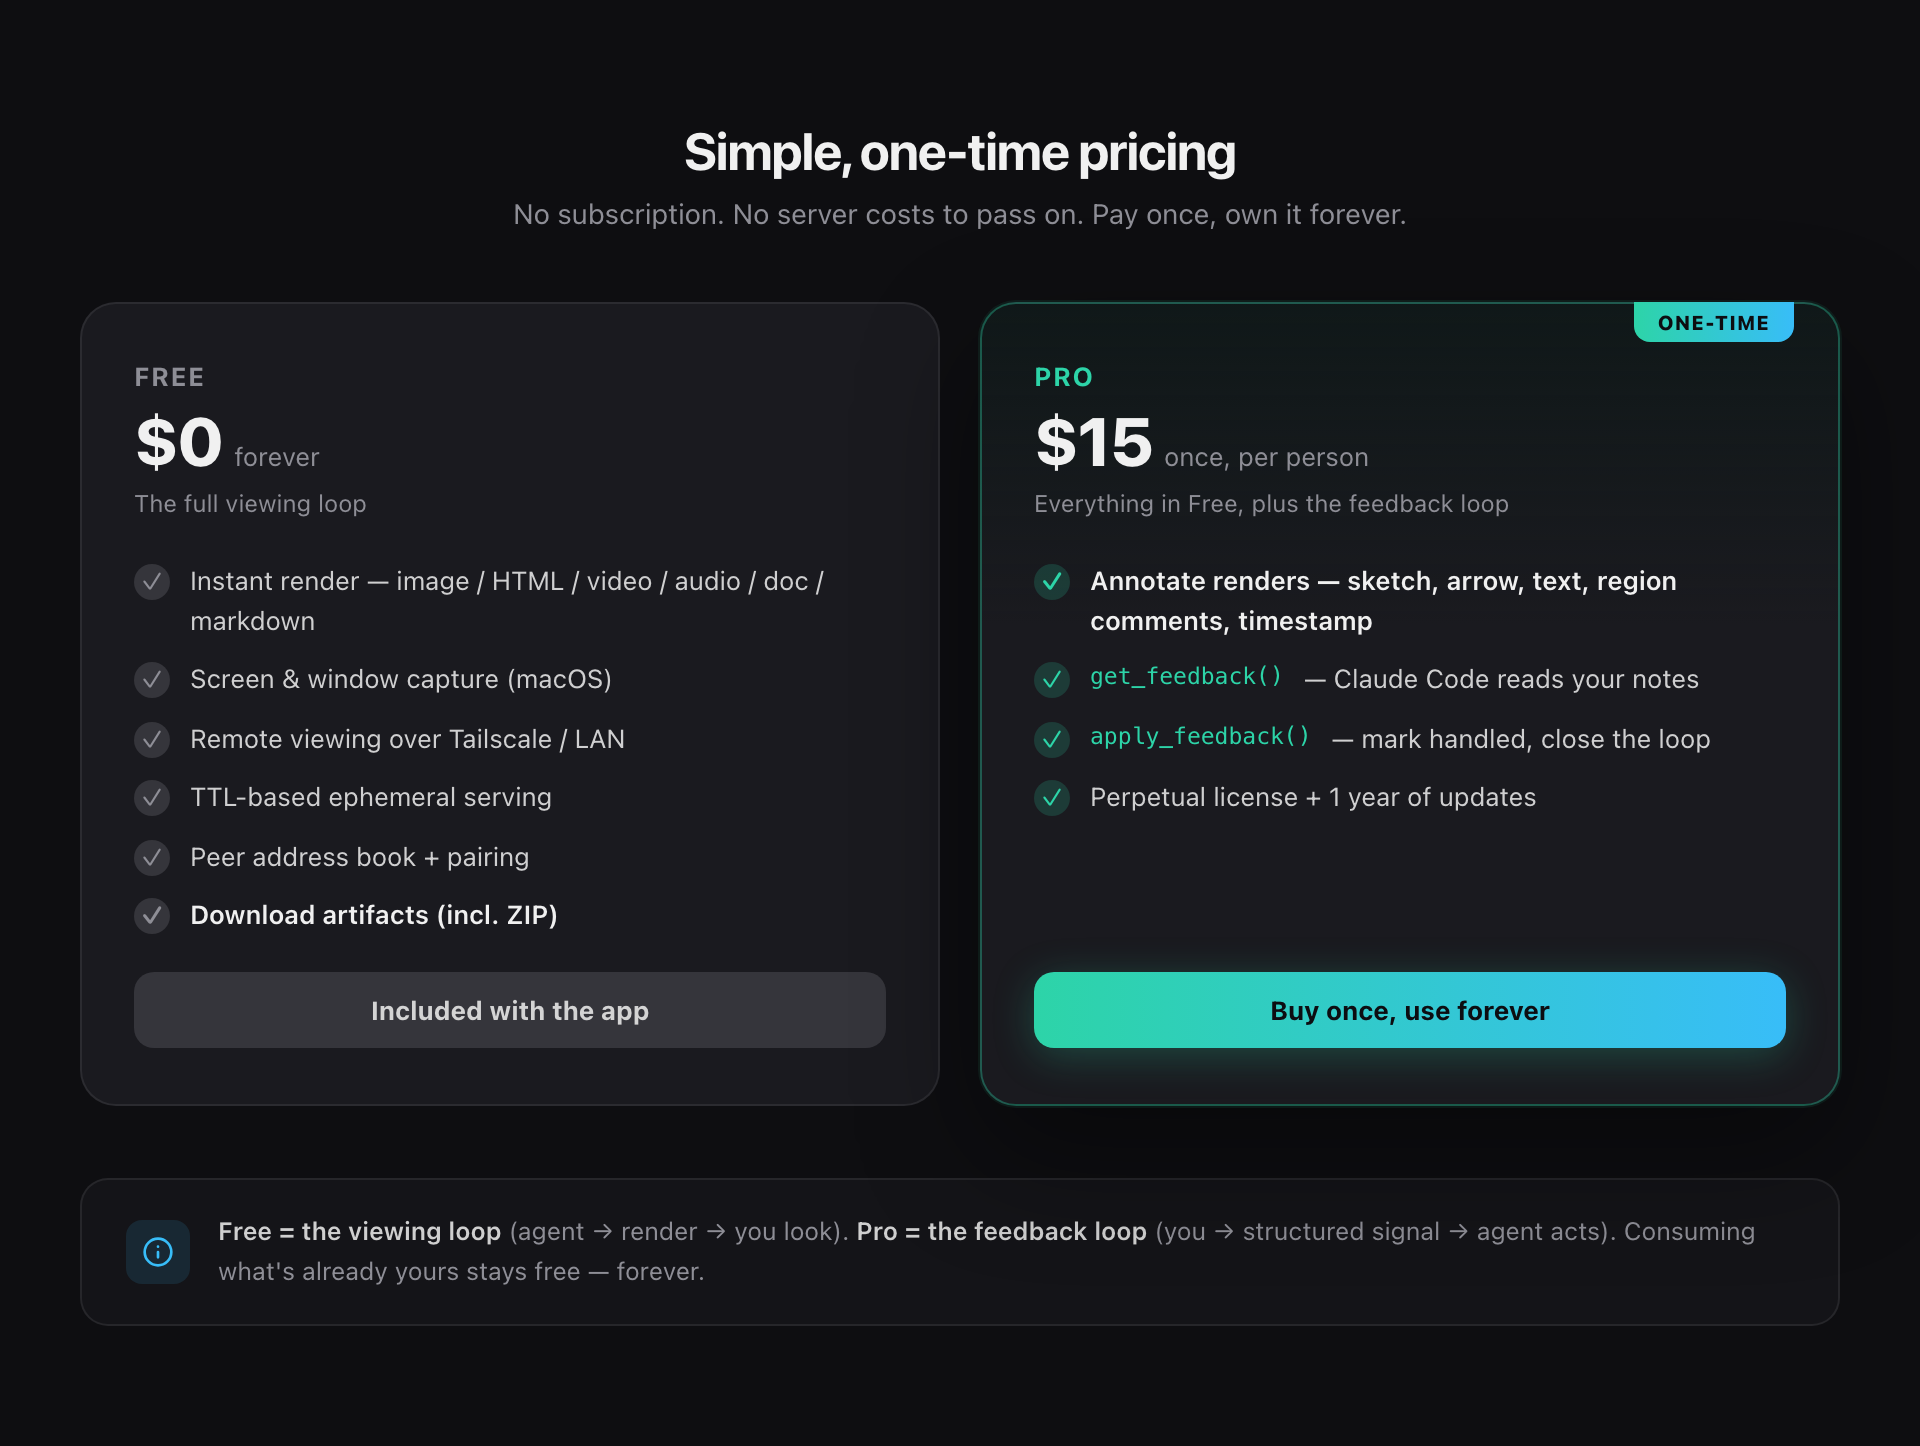
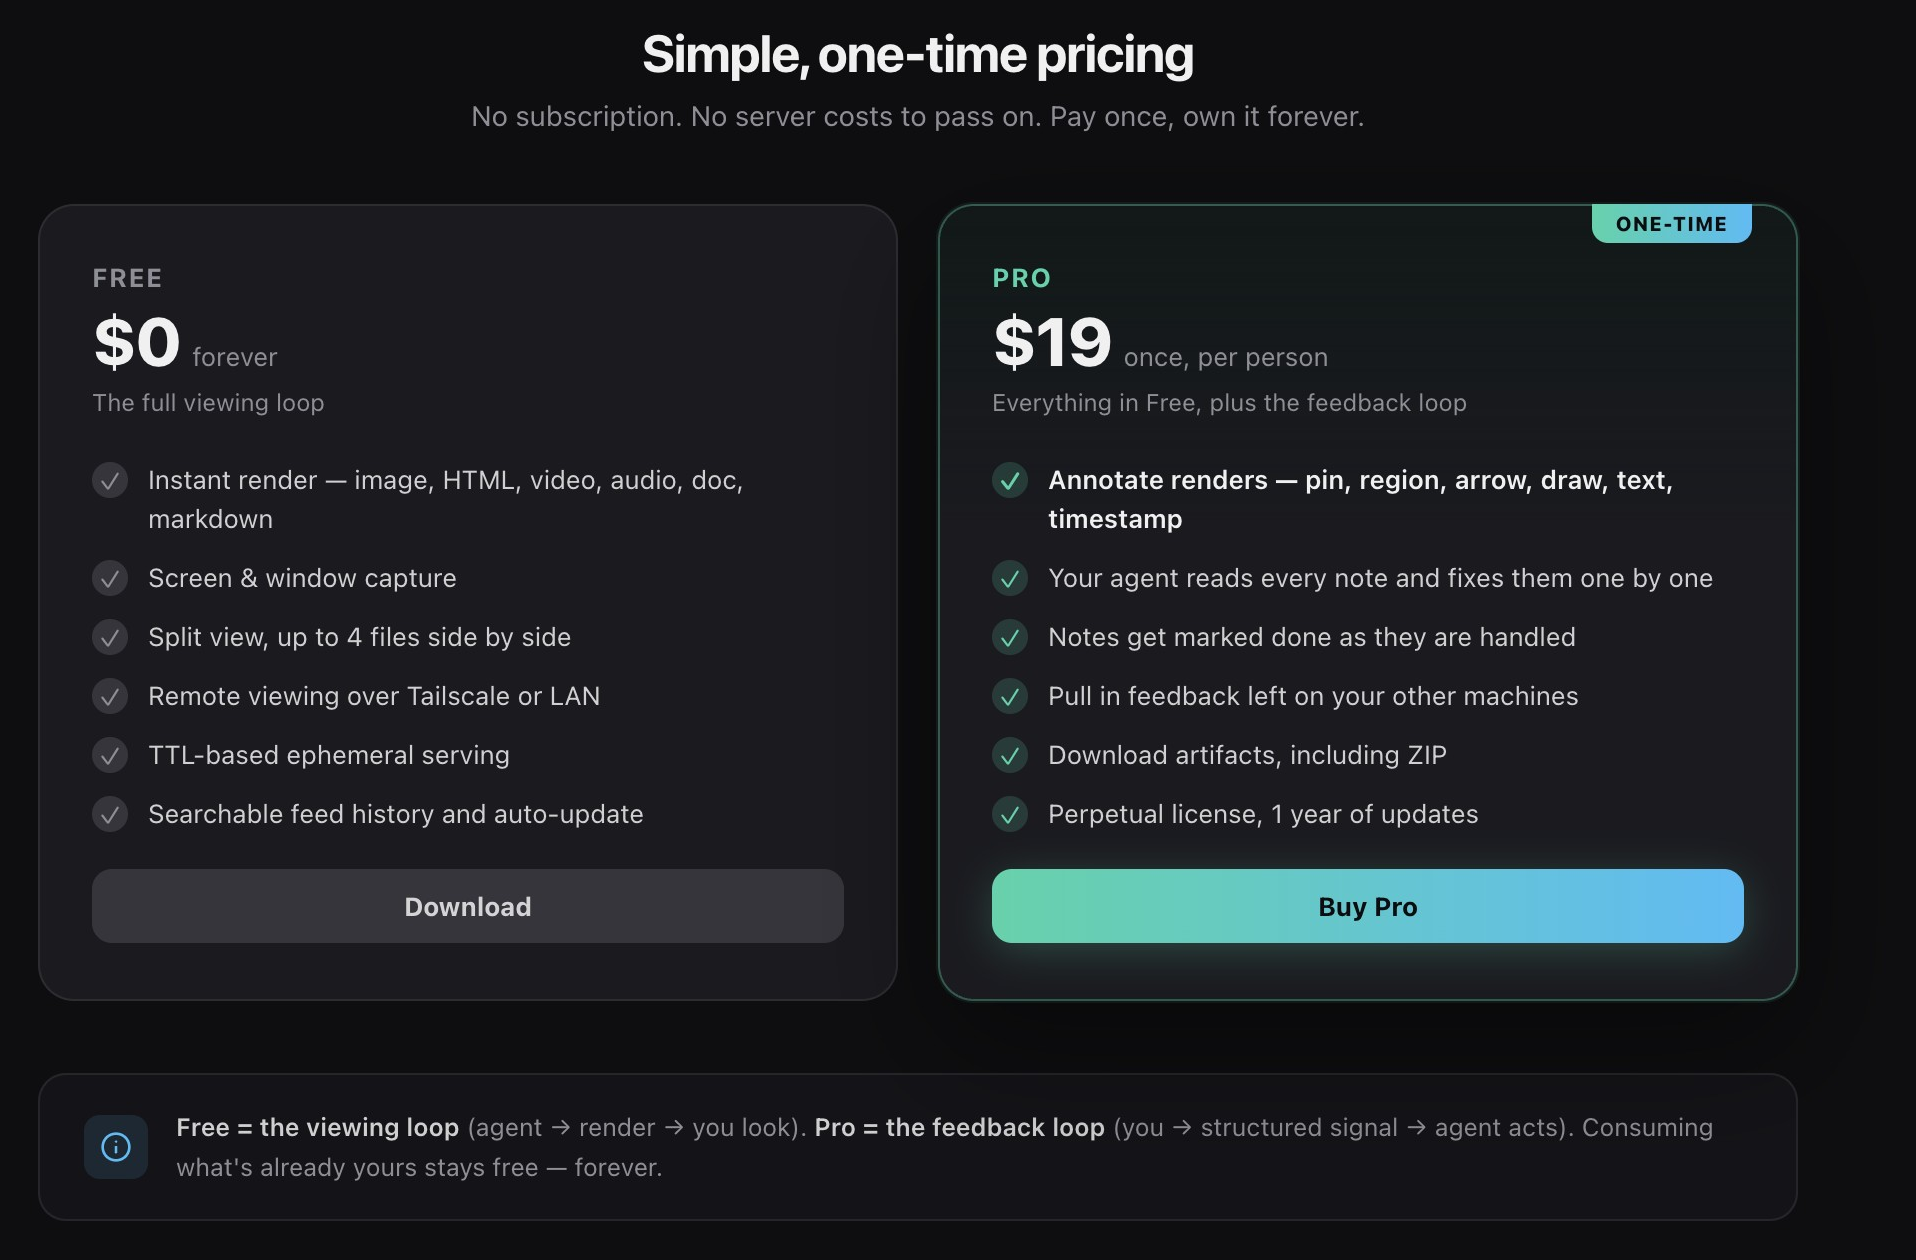
docs: Move demo video to top, update pricing to match live copy

diff --git a/README.md b/README.md
@@ -20,11 +20,15 @@
 <br>
 
 <p align="center">
-  <img src="marketing/hero.png" width="720" alt="superviewer main view">
+  <a href="https://github.com/dodlabinc/superviewer-releases/blob/main/marketing/demo.mp4">
+    <img src="marketing/demo-thumb.jpg" width="720" alt="Watch the superviewer demo video">
+  </a>
+  <br>
+  <sub>▶ <a href="https://github.com/dodlabinc/superviewer-releases/blob/main/marketing/demo.mp4">Watch the demo video</a></sub>
 </p>
 
 <p align="center">
-  <video src="marketing/demo.mp4" width="720" controls muted playsinline></video>
+  <img src="marketing/hero.png" width="720" alt="superviewer main view">
 </p>
 
 ---
@@ -44,6 +48,7 @@ One MCP tool call, and the content renders instantly in a persistent desktop vie
 - **Instant render.** Supports image, HTML, video, audio, markdown, and documents. No browser needed.
 - **MCP integration.** One `show()` call from Claude Code. Nothing to configure after install.
 - **Drag & drop.** Drop files onto the window or open them from Finder with "Open With."
+- **Split view.** Compare up to 4 files side by side.
 - **Symmetric nodes.** Every device both serves and views. No central server.
 - **Remote peers.** Send artifacts to any machine on your network via Tailscale or LAN.
 - **Ephemeral serving.** Resources auto-expire with configurable TTL.
@@ -56,10 +61,12 @@ One MCP tool call, and the content renders instantly in a persistent desktop vie
 ## Pricing
 
 <p align="center">
-  <img src="marketing/pricing.png" width="720" alt="superviewer pricing">
+  <img src="marketing/pricing.png" width="720" alt="superviewer pricing: Free vs Pro">
 </p>
 
-Free to use. Pro unlocks remote peer sending and extra features — see in-app **Settings > Pricing** for details.
+**Free** covers the full viewing loop — instant render, screen/window capture, split view (up to 4 files side by side), remote viewing over Tailscale/LAN, ephemeral serving, searchable feed history and auto-update. Forever, no subscription.
+
+**Pro ($19, one-time)** adds the feedback loop: annotate renders (pin, region, arrow, draw, text, timestamp), your agent reads and fixes every note one by one, notes get marked done as they're handled, feedback syncs in from your other machines, plus artifact downloads (incl. ZIP) and a perpetual license with 1 year of updates.
 
 ## Download
 
